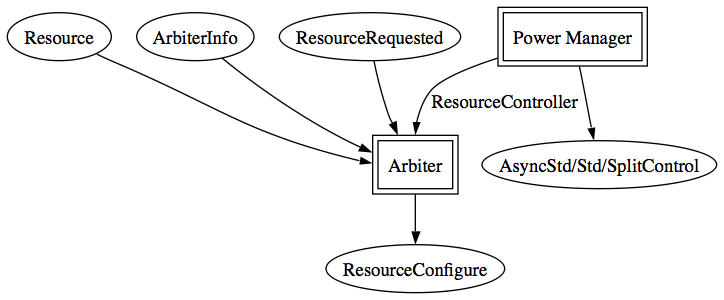
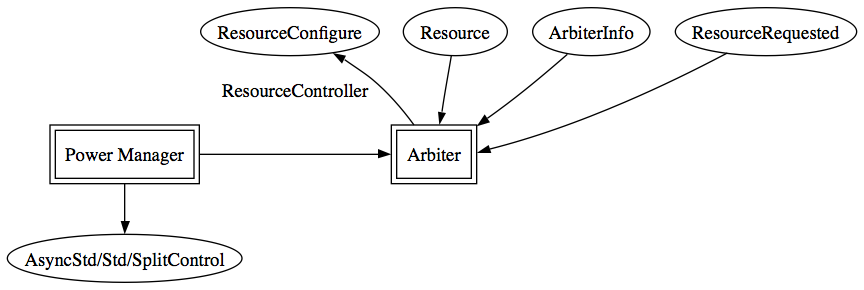
Update of tutorial based on comments from Jan...

diff --git a/doc/html/tutorial/lesson8.html b/doc/html/tutorial/lesson8.html
@@ -51,7 +51,7 @@ interface SplitControl {
 </pre>
 
 <p>
-Currently, the power states of all dedicated resources are controlled by one of these three interfaces.  They are only allow to enter one of two logical power states (on/off), regardless of the number of physical power states provided by the hardware on top of which their resource abstraction has been built. Which of these interfaces is provided by a particular resource depends on the timing requirements for physically powering it on or off.
+Currently, the power states of all dedicated resources are controlled by one of these three interfaces.  They are only allowed to enter one of two logical power states (on/off), regardless of the number of physical power states provided by the hardware on top of which their resource abstraction has been built. Which of these interfaces is provided by a particular resource depends on the timing requirements for physically powering it on or off.
 <p>
 
 <hr>
@@ -79,7 +79,7 @@ and holding on to it no longer than necessary. Clients explicitly release resour
 </p>
 
 <p>
-Shared resources are essentially built on top of dedicated resources, with access to them being controlled by an arbiter component.  In this way, <b>power managers</b> can be used to automatically control the power state of these resources through their <tt>AsyncStdControl</tt>, <tt>StdControl</tt>, or <tt>SplitControl</tt> interfaces.  They communicate with the arbiter, monitoring whether the resource is being used by any of its clients at any given moment and powering it on/off accordingly.  The figure below shows how an arbiter component and a power manager can be wired together to provide arbitration and automatic power management for a shared resource.
+Shared resources are essentially built on top of dedicated resources, with access to them being controlled by an arbiter component.  In this way, <b>power managers</b> can be used to automatically control the power state of these resources through their <tt>AsyncStdControl</tt>, <tt>StdControl</tt>, or <tt>SplitControl</tt> interfaces.  They communicate with the arbiter (through the use of a <tt>ResourceController</tt> interface), monitoring whether the resource is being used by any of its clients and powering it on/off accordingly.  The figure below shows how an arbiter component and a power manager can be wired together to provide arbitration and automatic power management for a shared resource.
 </p>
 
 <center>
@@ -105,7 +105,7 @@ Figure 2: Shared Resource Configuration
 </center>
 
 <p>
-From this figure, we see that the only interfaces exposed to a client through the shared resource abstraction are the <tt>Resource</tt> and <tt>ResourceRequested</tt> interfaces provided by the arbiter as well as any resource specific interfaces provided by the resource itself.  It also uses a <tt>ResourceConfigure</tt> interface, expecting it to be properly implemented by its clients. A client requests access to a shared resource through the <tt>Resource</tt> interface and runs operations on it using whatever resource specific interfaces are provided.  A client may choose to wire itself to the <tt>ResourceRequested</tt> interface if it wishes to hold onto a resource indefinitely and be informed whenever other clients request its use.
+From this figure, we see that the only interfaces exposed to a client through the shared resource abstraction are the <tt>Resource</tt> and <tt>ResourceRequested</tt> interfaces provided by the arbiter as well as any resource specific interfaces provided by the resource itself.  It also uses a <tt>ResourceConfigure</tt> interface, expecting it to be  implemented on a client by client basis depending on their requirements. A client requests access to a shared resource through the <tt>Resource</tt> interface and runs operations on it using whatever resource specific interfaces are provided.  A client may choose to wire itself to the <tt>ResourceRequested</tt> interface if it wishes to hold onto a resource indefinitely and be informed whenever other clients request its use.
 </p>  
 
 <p>
@@ -120,8 +120,8 @@ Specifically, this tutorial will teach users how to:
 </ol>
 </p>
 
-<h1>Using a Shared Resource</h1>
-<p>This section shows you how to gain access to and use shared resources in TinyOS.  It walks through the process of making a request through the <code>Resource</code> interface and handling the granted event that is signaled back.  We will connect multiple clients to a single shared resources and see how access to each of them gets arbitrated.  We also show how to hold onto a resource until another client has requested it by implementing the <tt>ResourceRequested</tt> interface.
+<h1>Working with Shared Resources</h1>
+<p>This section shows you how to gain access to and use shared resources in TinyOS.  It walks through the process of making a request through the <code>Resource</code> interface and handling the <tt>granted</tt> event that is signaled back.  We will connect multiple clients to a single shared resources and see how access to each of them gets arbitrated.  We also show how to hold onto a resource until another client has requested it by implementing the <tt>ResourceRequested</tt> interface.
 </p>
 
 <p>To begin, go to the <tt>tinyos-2.x/apps/tests/TestSharedResource</tt> directory and install this application on a mote.  After installing the application you should see three leds flashing in sequence.</p> 
@@ -157,7 +157,7 @@ implementation {
 
 <p>Other than the instantiation and wiring of the interfaces provided by the <code>SharedResourceC</code> component, this configuration is identical to the one presented in Lesson 1 for the Blink Application.</p>  
 
-<p>All shared resources in TinyOS are provided through a generic component similar to the <code>SharedResourceC</code> component.  A resource client simply instantiates a new instance of this component and wires to the interfaces it provides.  In this application, three instances of the <code>SharedResourceC</code> component are instantiated and wired to three different clients from the <code>TestSharedResourceC</code> component.  Each instantiation provides a <tt>Resource</tt>, <tt>ResourceOperations</tt>, and <tt>ResourceRequested</tt> interface (although no clients are wiring to this interface in this example).  The <tt>ResourceOperations</tt> interface represents a resource specific interface that can be used to perform operations on the resource.  Calls to commands through this interface will only succeed if the client calling them happens to have access to the resource when they are called.
+<p>All shared resources in TinyOS are provided through a generic component similar to the <code>SharedResourceC</code> component.  A resource client simply instantiates a new instance of this component and wires to the interfaces it provides.  In this application, three instances of the <code>SharedResourceC</code> component are instantiated and wired to three different clients from the <code>TestSharedResourceC</code> component.  Each instantiation provides a <tt>Resource</tt>, <tt>ResourceOperations</tt>, and <tt>ResourceRequested</tt> interface, and uses a <tt>ResourceConfgigure</tt> interface. In this example, no wiring is done to the <tt>ResourceConfigure</tt> or <tt>ResourceRequested</tt> interface as wiring to to these interfaces is optional.  The <tt>ResourceOperations</tt> interface is an <b>EXAMPLE</B> of a resource specific interface that a resource may provide to perform operations on it.  Calls to commands through this interface will only succeed if the client calling them happens to have access to the resource when they are called.
 </p>
 
 <p>Let's take a look at the <code>TestSharedResourceC</code> to see how access is actually granted to a Resource.
@@ -210,7 +210,7 @@ event void Resource2.granted() {
 } 
 </pre>
 
-<p>Whenever one of these operations completes, a <code>ResourceOperations.operationDone()</code> event is signaled.  Once this event is received by each client, a timer is started to hold onto the resource for 250 ms and an LED corresponding to that client is toggled.</p>
+<p>Whenever one of these operations completes, a <code>ResourceOperations.operationDone()</code> event is signaled.  Once this event is received by each client, a timer is started to hold onto the resource for 250 (binary) ms and an LED corresponding to that client is toggled.</p>
 
 <pre>
 #define HOLD_PERIOD 250
@@ -329,19 +329,23 @@ components SharedResourceImplP;
 As we've already seen, the <tt>RoundRobinArbiterC</tt> component is used to provide arbitration between clients using <tt>SharedResourceC</tt>.  The <tt>SplitControlPowerManagerC</tt> component is used to perform automatic power management of the resource to turn it on whenever a new client requests its use and shut it down whenever it goes idle.  The <tt>ResourceP</tt> component is the implementation of a dedicated resource which provides a <tt>SplitControl</tt> interface and a <tt>ResourceOperations</tt> interface.  This dedicated resource is wrapped by the <tt>SharedResourceImplP</tt> component in order to provide protected shared access to it.  <tt>SharedResourceImplP</tt> wraps all the commands provided by the dedicated resource, and uses the <tt>ArbiterInfo</tt> interface to keep clients from calling them without first being granted access to the resource.
 </p>
 
+<p>
+If you would like to see more examples of how to use the different arbiters and power managers provided in the default TinyOS distribution, please refer to the test applications located in <tt>tinyos-2.x/apps/tests/TestArbiter</tt> and <tt>tinyos-2.x/apps/tests/TestPowerManager</tt>.  This tutorial has provided enough background information on how to use these components in order for you to sift through these applications on your own. 
+</p>
+
 <h1>Conclusion</h1>
 <p>
 This tutorial has given an overview of how resource arbitration and mechanisms for performing power management on those resources is provided in TinyOS.  It walked us through the steps necessary for:
 <ol> 
 <li> Wiring in a shared resource for use by a client.
-<li> Useing the <tt>Resource</tt> interface to gain access to a shared resource.</li>
+<li> Using the <tt>Resource</tt> interface to gain access to a shared resource.</li>
 <li> Changing the arbitration policy used by a particular shared resource.</li>
 <li> Wrapping a dedicated resource and wiring in a power manager in order to create a shared resource.</li>
 </ol>
 </p>
 
 <p>
-While the power managers presented in this tutorial are powerful components for providing power management of shared reosurces, they are not the only power management mechanisms provided by TinyOS.  Microcontroller power management is also preformed as outlined in TEP115.  Whenever the task queue empties, the lowest power state that the microcontroller is capapble of dropping to is automatically calculated and then switched to.  In this way, the user is not burdened with explicity controlling these power states.  The cc1000 and cc2420 radio implementations also provide "Low Power Listening" (LPL) interfaces for controlling their duty cycles.  Although these interfaces differ somewhat, they are both able to provide energy savings not achieveable through other means.  Ideally, the components providing this LPL interface could be thought of as power manager components for the radio resource and be wired to the radio in the same way as the other power managers described in this tutorial.  The LPL implementation for the cc2420 can be found under <tt>tinyos-2.x/tos/chips/cc2420_lpl</tt> and the LPL implementation for the cc1000 can be found under <tt>tinyos-2.x/tos/chips/cc1000</tt>.  As these interfaces begin to mature and merge into one, this tutorial will be updated appropriately to accomodate the change.
+While the power managers presented in this tutorial are powerful components for providing power management of shared reosurces, they are not the only power management mechanisms provided by TinyOS.  Microcontroller power management is also preformed as outlined in TEP115.  Whenever the task queue empties, the lowest power state that the microcontroller is capapble of dropping to is automatically calculated and then switched to.  In this way, the user is not burdened with explicity controlling these power states.  The cc1000 and cc2420 radio implementations also provide "Low Power Listening" (LPL) interfaces for controlling their duty cycles.  Although the LPL interface used by each radio stack differs somewhat, they are both able to provide energy savings not achieveable through other means.  Ultimately we would like to see the components providing this LPL interface implemented as power manager components for the "radio resource" and be wired to the radio in the same way as the other power managers described in this tutorial.  The LPL implementation for the cc2420 can be found under <tt>tinyos-2.x/tos/chips/cc2420_lpl</tt> and the LPL implementation for the cc1000 can be found under <tt>tinyos-2.x/tos/chips/cc1000</tt>.  As these interfaces begin to mature and merge into one, this tutorial will be updated appropriately to accomodate the change.
 </p>
 
 <!-- Related Docs -->
